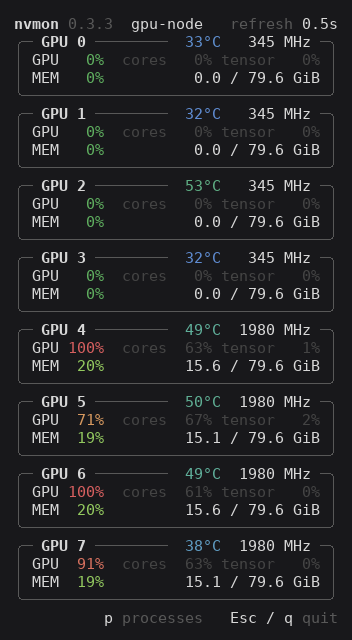
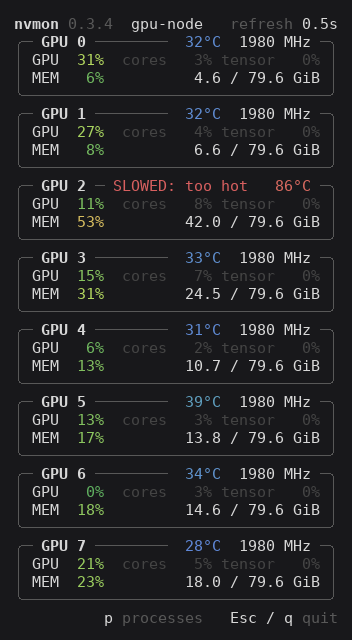
nvmon 0.3.4
Release notes in CHANGELOG.md; the README's pictures taken again with this version, all but the themes and
the numbers, which a quieter server showed less well.

diff --git a/nvmon.py b/nvmon.py
@@ -29,7 +29,7 @@ from ctypes import byref, c_int, c_uint, c_ulonglong, c_void_p
 from functools import lru_cache
 from typing import NamedTuple, Optional
 
-__version__ = "0.3.3+dev"  # "+dev": work past this release; the release commit sets the next number
+__version__ = "0.3.4"  # "+dev": work past this release; the release commit sets the next number
 REPO = "https://github.com/Han-DongHeun/nvmon"
 RELEASES = REPO + "/releases"                 # release notes, and nvmon.py for those who copy the file
 PYPI_JSON = "https://pypi.org/pypi/nvmon/json"

diff --git a/CHANGELOG.md b/CHANGELOG.md
@@ -3,7 +3,7 @@
 What changes for you in each release. The same notes appear on the
 [releases page](https://github.com/Han-DongHeun/nvmon/releases).
 
-## Unreleased
+## 0.3.4
 
 - Pointing at a graph shows the memory in use then as well: "73% · 41.2G · 16s ago". Where the graph is
   narrow, the memory gives way first, then the time.
